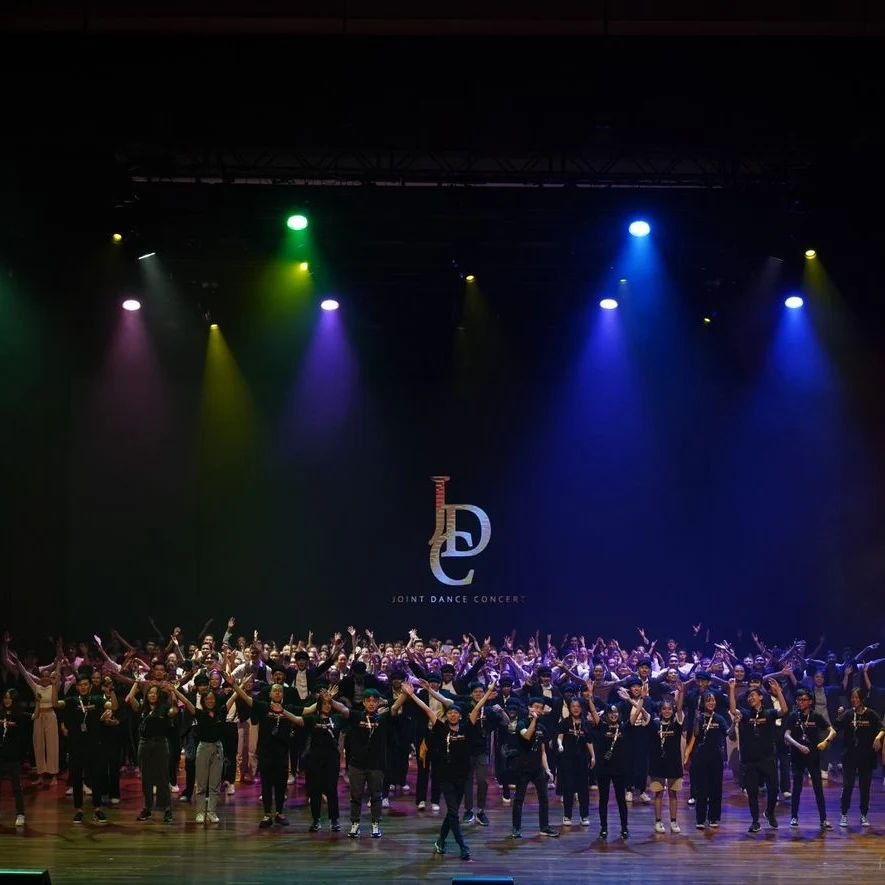
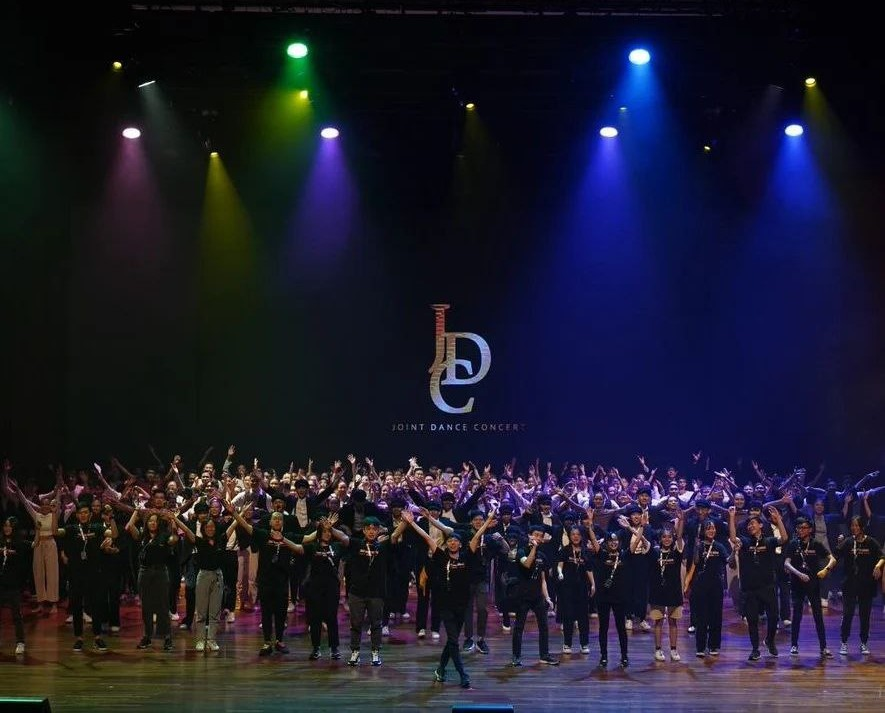
Lowest all NAFxCAC img size for loading

diff --git a/src/NAFxCAC/GalleryxCAC.js b/src/NAFxCAC/GalleryxCAC.js
@@ -20,18 +20,18 @@ const GalleryxCAC = (props) => {
       <div class="bg-white w-[90%] lg:w-[80%] h-fit mt-5 mx-auto border-4 border-black md:shadow-[20px_20px_0_0_rgba(0,0,0)] text-center">
         <div class="text-center">
           <div class="font-syne font-bold text-lg lg:text-2xl border-b-4 border-black py-4 v">{props.title}</div>
-          <div class=" max-h-[800px] overflow-hidden"><img class='w-full h-full' src={imgState[galleryState]} /></div>
+          <div class=" max-h-[600px] overflow-hidden"><img class='w-full h-full' src={imgState[galleryState]} /></div>
         </div>
       </div>
       <div class="mx-auto mb-5 lg:mb-0 flex justify-around w-3/4 md:w-1/4 mt-10 cursor-pointer"  onClick={ImageState(galleryState - 1)}>
         <div class="bg-NAFPurple border-4 border-black px-5 pt-5 pb-4">
           <button class="inline-block w-[15%] md:w-[30%] lg:w-[15%]">
-            <svg xmlns="http://www.w3.org/2000/svg" class='h-10 w-10' viewBox="0 0 384 512"><path d="M41.4 233.4c-12.5 12.5-12.5 32.8 0 45.3l192 192c12.5 12.5 32.8 12.5 45.3 0s12.5-32.8 0-45.3L109.3 256 278.6 86.6c12.5-12.5 12.5-32.8 0-45.3s-32.8-12.5-45.3 0l-192 192z" /></svg>
+            <svg xmlns="http://www.w3.org/2000/svg" class='md:h-10 md:w-10 w-5 h-5' viewBox="0 0 384 512"><path d="M41.4 233.4c-12.5 12.5-12.5 32.8 0 45.3l192 192c12.5 12.5 32.8 12.5 45.3 0s12.5-32.8 0-45.3L109.3 256 278.6 86.6c12.5-12.5 12.5-32.8 0-45.3s-32.8-12.5-45.3 0l-192 192z" /></svg>
           </button>
         </div>
         <div class="bg-NAFPurple border-4 border-black px-5 pt-5 pb-4 cursor-pointer"  onClick={ImageState(galleryState + 1)}>
           <button class="inline-block w-[15%] md:w-[30%] lg:w-[15%]">
-            <svg xmlns="http://www.w3.org/2000/svg" class='h-10 w-10' viewBox="0 0 384 512"><path d="M342.6 233.4c12.5 12.5 12.5 32.8 0 45.3l-192 192c-12.5 12.5-32.8 12.5-45.3 0s-12.5-32.8 0-45.3L274.7 256 105.4 86.6c-12.5-12.5-12.5-32.8 0-45.3s32.8-12.5 45.3 0l192 192z" /></svg>
+            <svg xmlns="http://www.w3.org/2000/svg" class='md:h-10 md:w-10 w-5 h-5' viewBox="0 0 384 512"><path d="M342.6 233.4c12.5 12.5 12.5 32.8 0 45.3l-192 192c-12.5 12.5-32.8 12.5-45.3 0s-12.5-32.8 0-45.3L274.7 256 105.4 86.6c-12.5-12.5-12.5-32.8 0-45.3s32.8-12.5 45.3 0l192 192z" /></svg>
           </button>
         </div>
       </div>

diff --git a/src/NAFxCAC/ContactxCAC.js b/src/NAFxCAC/ContactxCAC.js
@@ -34,9 +34,9 @@ const ContactxCAC = (props) => {
       <div class="lg:ml-[45.75%] w-[30%] mx-auto lg:mx-0 my-20 text-white lg:w-fit lg:block hidden">
         <div class="flex flex-col">
           <div class="mt-3 text-2xl font-syne w-[400px]">Contact Us</div>
-          <div class="mt-3"><img src={InternetIcon} class="inline w-[60px]" /><a class="ml-1 font-syne" href={props.website}>{website}</a></div>
-          <div class="mt-3"><img src={FacebookIcon} class="inline w-[60px]" /><a class="ml-1 font-syne" href={props.facebook}>{facebook}</a></div>
-          <div class="mt-3"><img src={InstagramIcon} class="inline w-[60px]" /><a class="ml-1 font-syne" href={props.instagram}>{instagram}</a> </div>
+          <div class="mt-3"><img src={InternetIcon} class="inline w-[40px]" /><a class="ml-1 font-syne" href={props.website}>{website}</a></div>
+          <div class="mt-3"><img src={FacebookIcon} class="inline w-[40px]" /><a class="ml-1 font-syne" href={props.facebook}>{facebook}</a></div>
+          <div class="mt-3"><img src={InstagramIcon} class="inline w-[40px]" /><a class="ml-1 font-syne" href={props.instagram}>{instagram}</a> </div>
         </div>
       </div>
       <div class="my-20 text-white lg:hidden block">

diff --git a/src/NAFxCAC/NAFxCS.js b/src/NAFxCAC/NAFxCS.js
@@ -46,7 +46,7 @@ const NAFxCS = () => {
     const theme = "Our theme this year is Y2K, a popular fashion theme from the 2000s. Through this Y2K theme, we hope to give our contestants a sense of nostalgia, by bringing them back in time to relive their childhood memories, or even fulfill their childhood dreams of performing on stage!"
     const imgs = [CS_1, CS_2, CS_3, CS_4]
     return (
-        <div class="relative bg-NAFBlue py-[50px] relative overflow-hidden">
+        <div class="relative bg-NAFBlue py-[50px] overflow-hidden">
             <img src={TopLeftRedStar} class="absolute top-[5%] left-[0%] w-[15%]"></img>
             <img src={TopLeftYellowStar2} class="absolute top-[0%] left-[20%] w-[6%]"></img>
 

diff --git a/src/NAFxCAC/AboutxCAC.js b/src/NAFxCAC/AboutxCAC.js
@@ -30,7 +30,7 @@ const AboutxCAC = (props) => {
         <div
           onClick={() => setActive(1)}
           class={`${active === 1 ? classNames.tabActive : classNames.tabInactive
-            } text-xs md:text-base w-[32%] sm:w-[17%] font-semibold text-center cursor-pointer`}
+            } text-xs md:text-base w-[32%] sm:w-[17%] font-syne text-center cursor-pointer`}
         >
           Theme
         </div>
